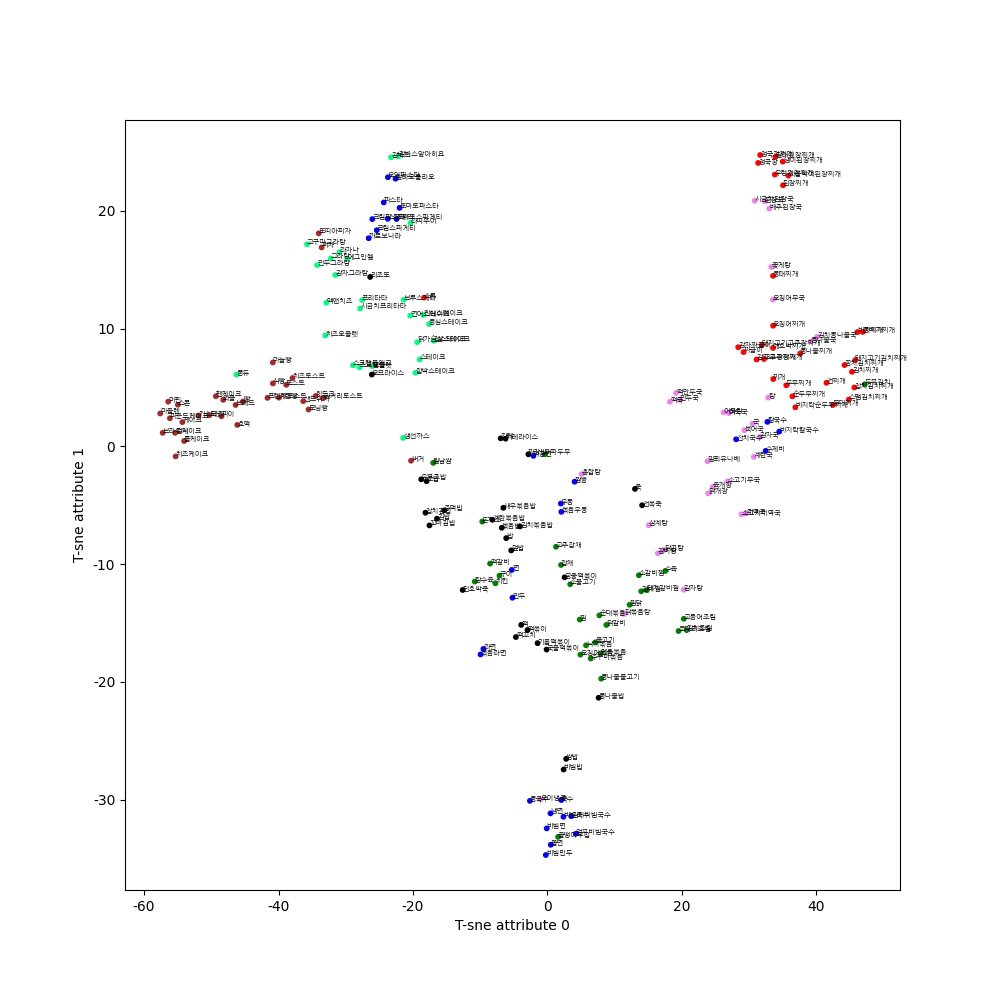
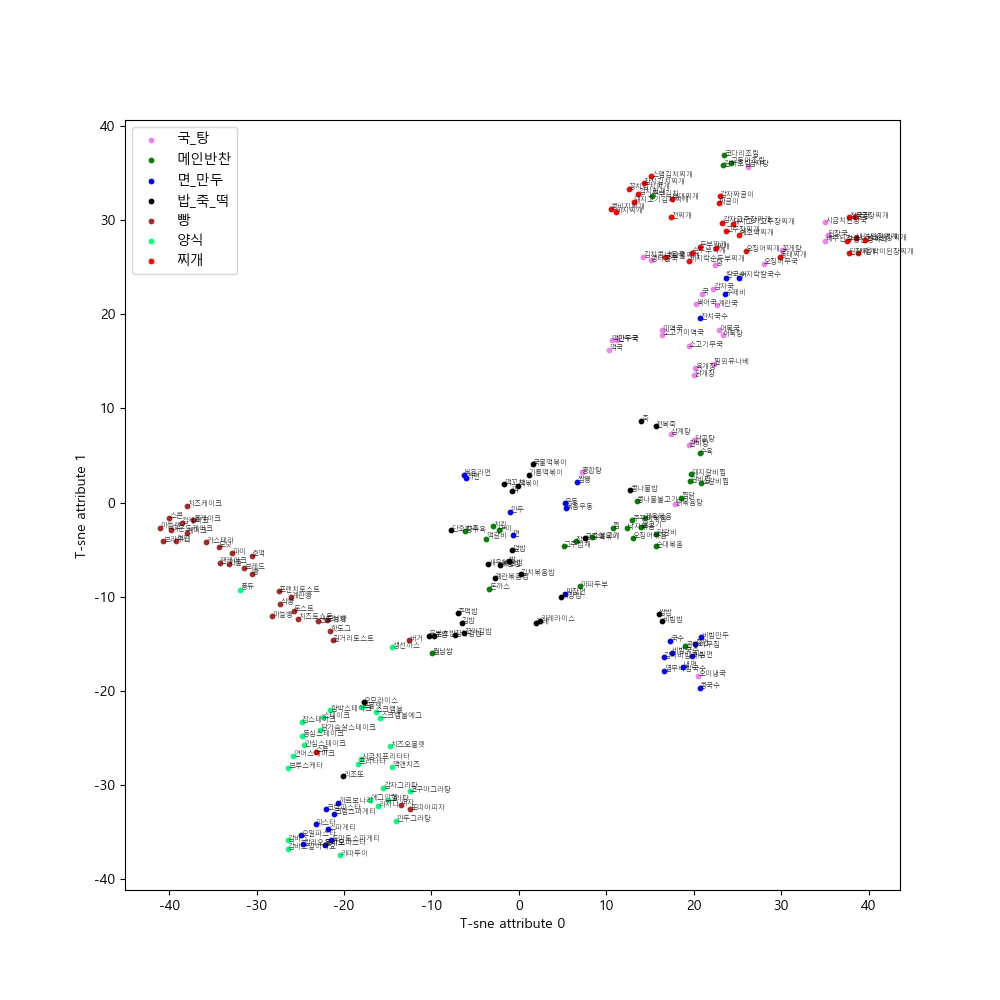
Update vec_visualize.py

diff --git a/vec_visualize.py b/vec_visualize.py
@@ -4,26 +4,33 @@ import matplotlib as mpl
 import matplotlib.pyplot as plt
 import matplotlib.font_manager as fm
 import pandas as pd
-from gensim.models import KeyedVectors
+from IPython.display import display
 import os
 from recipe_embedding import menu_embedding
 
+# matplotlib 폰트관련 설정
 mpl.rcParams['axes.unicode_minus'] = False
-
-font_path = r'C:\Users\daraH\Downloads\NanumFontSetup_TTF_GOTHIC\NanumGothic.ttf'
+font_path = r'C:\Windows\Fonts\malgunsl.ttf'
 font_name = fm.FontProperties(fname=font_path).get_name()
 plt.rc('font', family=font_name)
 fontprop = fm.FontProperties(fname=font_path)
 
-def show_tsne():
-  tsne = TSNE(n_components=2, perplexity=10)
-  X = tsne.fit_transform(X_show)
 
-  df = pd.DataFrame(X, index=vocab_show, columns=['x', 'y'])
+def show_tsne(X_in, vocab):
+  tsne = TSNE(n_components=2, perplexity=10)
+  X = tsne.fit_transform(X_in)  # tsne로 차원 축소
+
+  df = pd.DataFrame(X, index=vocab, columns=['x', 'y'])
+
   fig = plt.figure()
   fig.set_size_inches(10, 10)
   ax = fig.add_subplot(1, 1, 1)
-  ax.scatter(df['x'], df['y'], s=S, c=C, label=Label)
+  for i in range(len(X_in)):
+    if Label_flag[Label[i]] == 0:
+      ax.scatter(df['x'][i], df['y'][i], s=S[i], c=C[i], label=Label[i])
+      Label_flag[Label[i]] = 1
+    else:
+      ax.scatter(df['x'][i], df['y'][i],  s=S[i], c=C[i])
 
   for word, pos in df.iterrows():
     ax.annotate(word, pos, fontproperties=fontprop, size=5)
@@ -31,9 +38,13 @@ def show_tsne():
   plt.legend()
   plt.xlabel("T-sne attribute 0")
   plt.ylabel("T-sne attribute 1")
-  plt.show(loc=(1.0, 1.0))
-  #plt.savefig('./menu2vec_tsne.png')
 
+  fig_tsne = plt.gcf()
+  plt.show(loc=(1.0, 1.0)) # plot을 출력
+  fig_tsne.savefig('./menu2vec_tsne.png') # plot을 이미지 파일로 저장
+
+
+# menu의 category 분류하기
 category = {}
 folders = os.listdir('./recipe_data')
 print(folders)
@@ -52,31 +63,40 @@ X = menu2vec[vocab]
 C = []
 S = []
 Label = []
+Label_flag = {}
+X_set = ['국_탕', '메인반찬', '면_만두', '밥_죽_떡', '빵', '양식', '찌개']
 for food in menu2vec.index_to_key:
   S.append(10)
   if food in category['국_탕']:
     C.append('violet')
-    Label.append('Set1')
+    Label.append(X_set[0])
+    Label_flag[X_set[0]] = 0
   elif food in category['메인반찬']:
     C.append('green')
-    Label.append('Set2')
+    Label.append(X_set[1])
+    Label_flag[X_set[1]] = 0
   elif food in category['면_만두']:
     C.append('blue')
-    Label.append('Set3')
+    Label.append(X_set[2])
+    Label_flag[X_set[2]] = 0
   elif food in category['밥_죽_떡']:
     C.append('black')
-    Label.append('Set4')
+    Label.append(X_set[3])
+    Label_flag[X_set[3]] = 0
   elif food in category['빵']:
     C.append('brown')
-    Label.append('Set5')
+    Label.append(X_set[4])
+    Label_flag[X_set[4]] = 0
   elif food in category['양식']:
     C.append('springgreen')
-    Label.append('Set6')
+    Label.append(X_set[5])
+    Label_flag[X_set[5]] = 0
   elif food in category['찌개']:
     C.append('red')
-    Label.append('Set7')
+    Label.append(X_set[6])
+    Label_flag[X_set[6]] = 0
 
 sz = 210
 X_show = X[:sz,:]
 vocab_show = vocab[:sz]
-show_tsne()
+show_tsne(X, vocab)
